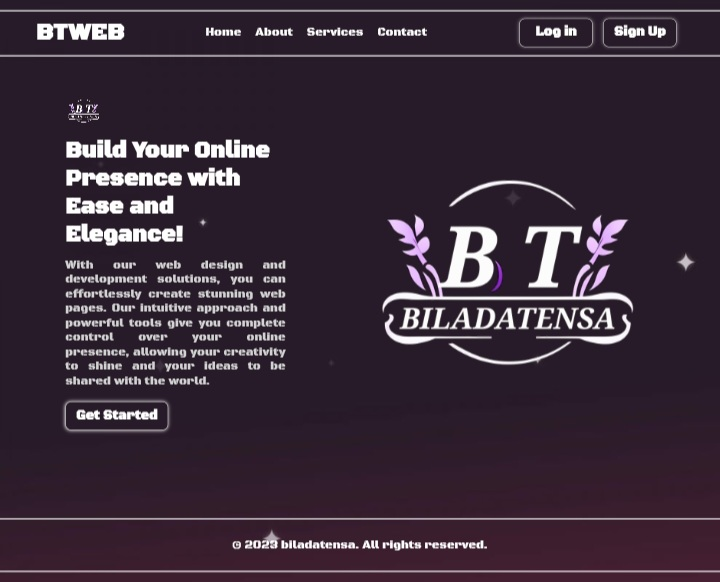
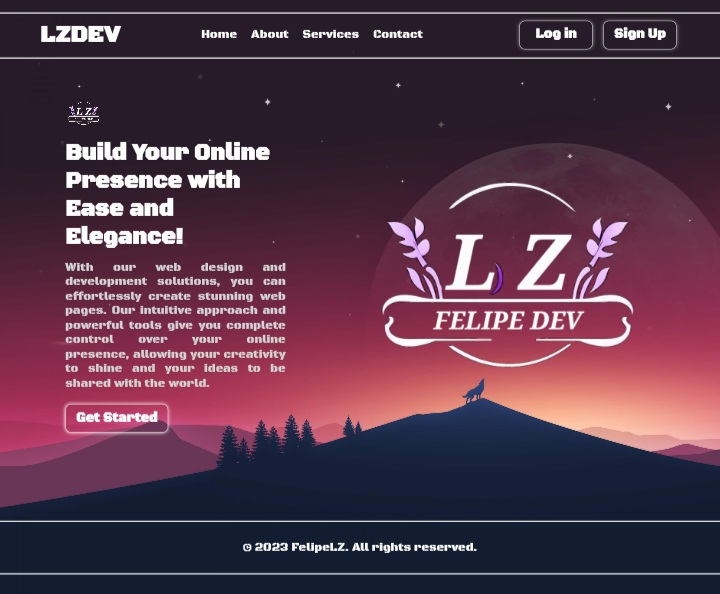
Add files via upload

diff --git a/index.html b/index.html
@@ -4,7 +4,7 @@
 <head>
   <meta charset="utf-8">
   <meta name="viewport" content="width=device-width, initial-scale=1.0">
-  <meta name="author" content="O Mendigo">
+  <meta name="author" content="FelipeLZ dev">
   <title>Portfolio</title>
   <link href="style.css" rel="stylesheet" type="text/css" />
   <link rel="stylesheet" href="projects.css">
@@ -14,7 +14,7 @@
 <body>
  <header>
     <h1>
-     BTWEB FOREVER
+     FELIPE DEV
     </h1>
  </header>
   
@@ -22,7 +22,7 @@
 
    <section class="section1">
      <img src="eu-circle.jpg" id="top">
-     <h2 class="name">Hi, i'm O Mendigo</h2>
+     <h2 class="name">Hi, i'm FelipeLZ</h2>
      <p class="area">FRONT-END <br>WEB DEVELOPER</p>
      <p class="passionate">
        A passionate <span>Frontend / Fullstack</span> web developer and <span>UI/UX</span> enthusiast specialized in building stunning pixel-perfect interactive websites/applications.
@@ -34,7 +34,7 @@
      <article class="section2-article1">
        <h2>About</h2>
      <p class="section2-article1-p1">
-Hello there! O Mendigo. <span>Frontend / Fullstack</span> web developer 
+Hello there! FelipeLZ. <span>Frontend / Fullstack</span> web developer 
 based near Montreal. I wake up in the morning, grab a cup of timmies coffee. 
 open up my laptop encl build things that live on the web all day, everyday.
      </p>
@@ -43,7 +43,7 @@ open up my laptop encl build things that live on the web all day, everyday.
 learning new things. 
      </p>
      <p class="section2-article1-p3">
-       I recently created a YouTube channel called <span>O Mendigo</span> where i upload
+       I recently created a YouTube channel called <span>FelipeLZ dev</span> where i upload
 videos on front-end web development topics.
      </p>
 
@@ -87,7 +87,8 @@ videos on front-end web development topics.
      <section class="projects-section">
        <article class="article-about">
       <div>
-         <h2>BTWEB</h2>
+         <h2>LZWEB</h2>
+        <img src="btweb.jpg" id="display">
          <p>
            In our latest web project, we created a dynamic e-commerce platform for an exceptional online shopping experience.
          </p>
@@ -106,26 +107,7 @@ videos on front-end web development topics.
      
     
      
-     <section class="projects-section">
-       <article class="article-img">
-         <img src="btweb-login.jpg">
-       </article>
-
-       <article class="article-about">
-        <div>
-         <h2>BTWEB-LOGIN</h2>
-         <p>
-           In our latest web project, we created a dynamic e-commerce platform for an exceptional online shopping experience.
-         </p>
-         <p>
-           Our recent web project focused on developing a responsive and engaging blog platform. With a sleek design, intuitive navigation, and fast loading times, we aim to provide readers with a rich and visually appealing content experience. Explore our blog for a seamless reading journey.
-         </p>
-         <a href="https://felipeluizz.github.io/Primeiro/">
-         <button>Website</button>
-         </a>
-        </div>
-       </article>
-     </section>
+     
      
      
    </section>
@@ -143,15 +125,10 @@ videos on front-end web development topics.
   
   <footer>
     <p>
-      &copy; 2023 O Mendigo. All rights reserved.
+      &copy; 2023 FelipeLZ. All rights reserved.
     </p>
   </footer>
 
-  <a href="#top">
-   <button class="gotop">
-     &uarr;
-   </button>
-  </a>
 </body>
 
 </html>

diff --git a/style.css b/style.css
@@ -26,24 +26,6 @@ header {
   justify-content: center;
   align-items: center;
 }
-header a {
-  color: white;
-  text-decoration: none;
-}
-.gotop {
-  position: fixed;
-  z-index: 1;
-  bottom: 20px;
-  right: 20px;
-  padding: 7px 15px;
-  border-radius: 50px;
-  font-size: 20px;
-  background-color: black;
-  color: white;
-  border: none;
-  cursor: pointer;
-  box-shadow: none;
-}
 main {
   width: 80%;
   margin: auto;
@@ -134,8 +116,6 @@ button:active {
 .section2-article1-p3 span {
   color: #ed0000;
   font-weight: bold;
-  text-decoration: underline;
-  cursor: pointer;
 }
 
 .section2-article1 caption {

diff --git a/mqueries.css b/mqueries.css
@@ -37,8 +37,13 @@
   .projects-section {
     display: block;
   }
-  
-
+  #display {
+    display: inline-block;
+    padding-bottom: 10px;
+  }
+  .projects-section img {
+    display: none;
+  }
 
 
   /*  END OF PROJECTS SECTION */

diff --git a/projects.css b/projects.css
@@ -39,8 +39,8 @@
   margin-bottom: 40px;
   margin-top: 0;
 }
-.article-img {
-  box-shadow: 0px 0px 10px rgba(237,0,0,0.5);
+#display {
+  display: none;
 }
 .projects-section img {
   background-size: contain;
